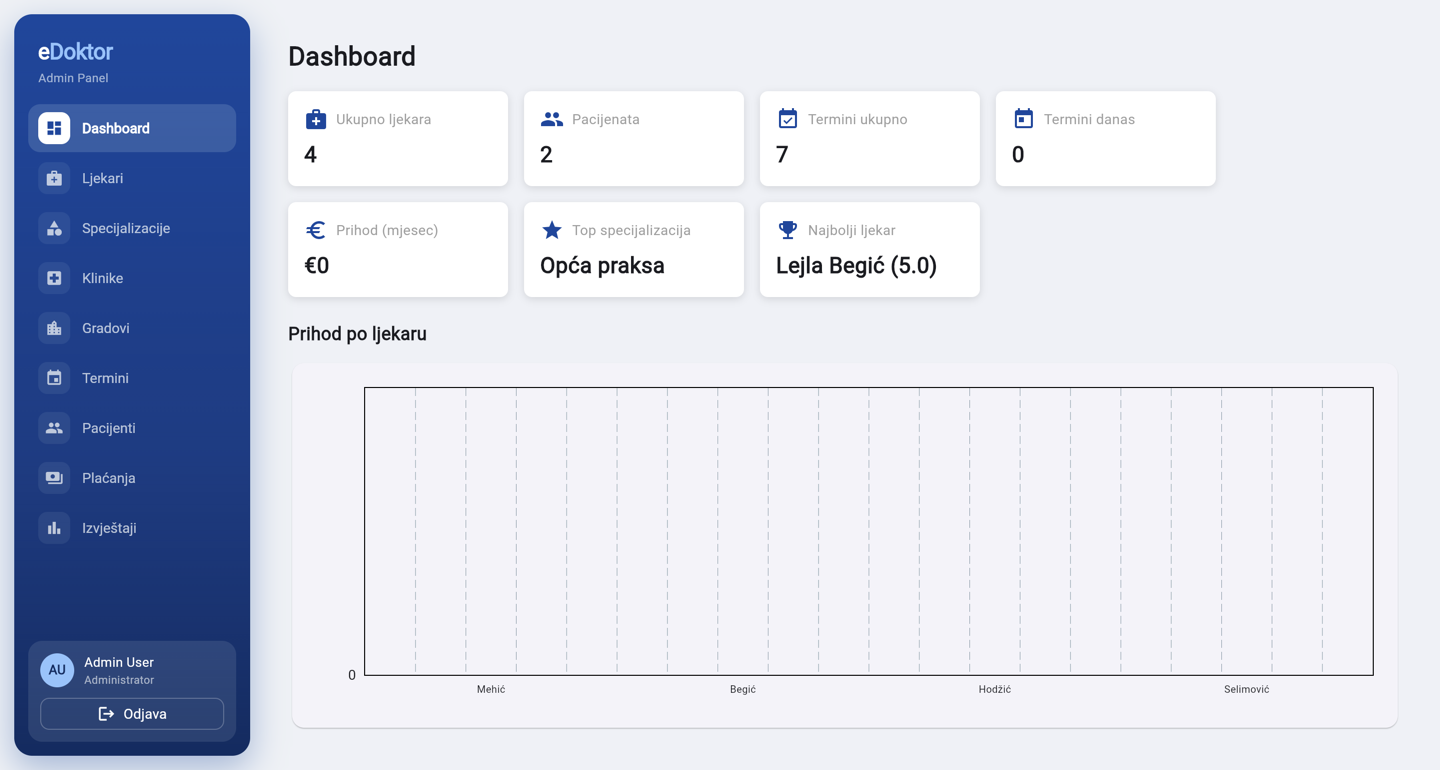
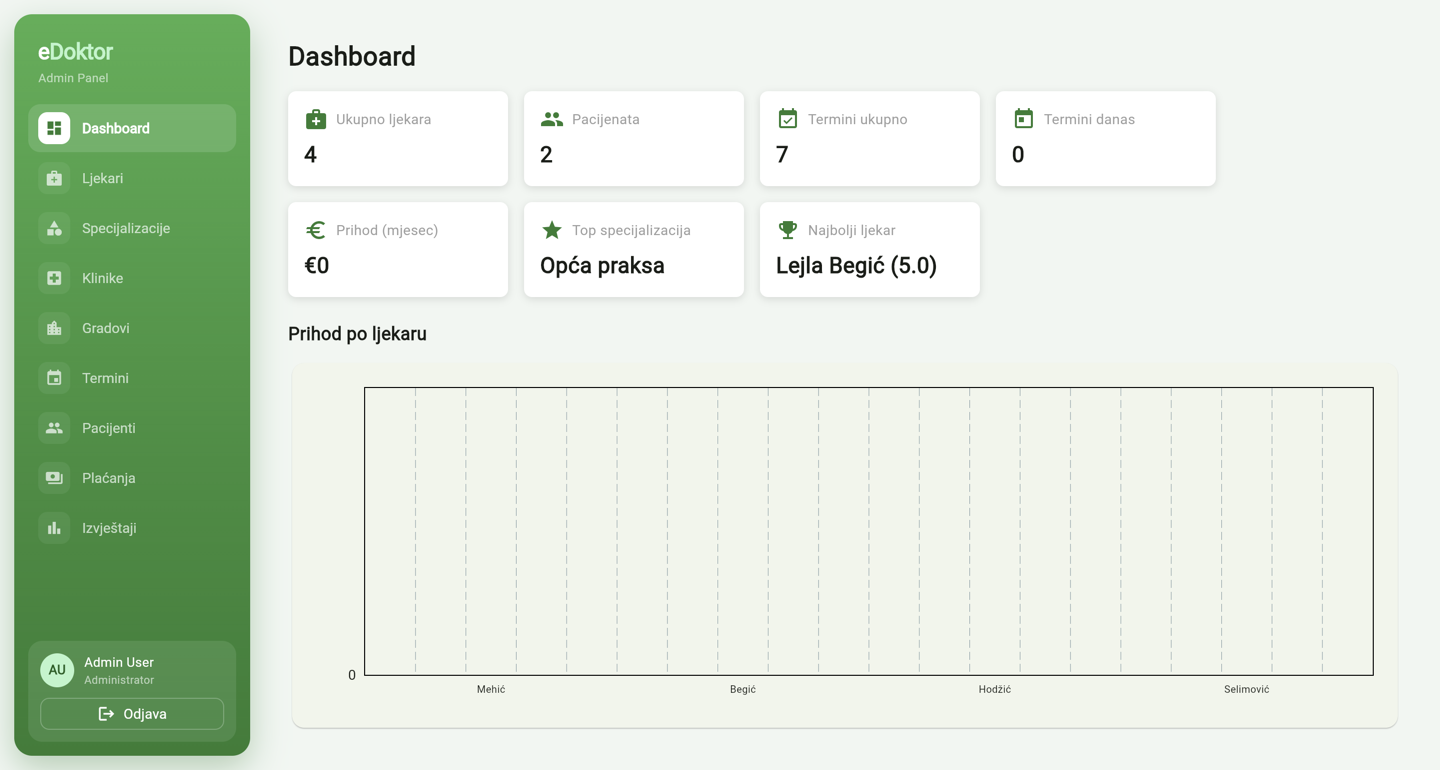
README update v2

diff --git a/UI/edoktor_desktop/lib/screens/shell_screen.dart b/UI/edoktor_desktop/lib/screens/shell_screen.dart
@@ -56,7 +56,7 @@ class _ShellScreenState extends State<ShellScreen> {
   Widget build(BuildContext context) {
     final user = context.watch<AuthProvider>().user;
     return Scaffold(
-      backgroundColor: const Color(0xFFEEF1F6),
+      backgroundColor: const Color(0xFFF1F6F2),
       body: Padding(
         padding: const EdgeInsets.all(14),
         child: Row(crossAxisAlignment: CrossAxisAlignment.stretch, children: [
@@ -105,10 +105,10 @@ class _Sidebar extends StatelessWidget {
         gradient: const LinearGradient(
           begin: Alignment.topCenter,
           end: Alignment.bottomCenter,
-          colors: [Color(0xFF0D47A1), Color(0xFF123C86), Color(0xFF0B2C63)],
+          colors: [Color(0xFF4CAF50), Color(0xFF388E3C), Color(0xFF2E7D32)],
           stops: [0, 0.6, 1],
         ),
-        boxShadow: const [BoxShadow(color: Color(0x590D47A1), blurRadius: 28, offset: Offset(0, 12))],
+        boxShadow: const [BoxShadow(color: Color(0x552E7D32), blurRadius: 28, offset: Offset(0, 12))],
       ),
       child: Column(crossAxisAlignment: CrossAxisAlignment.stretch, children: [
         const Padding(
@@ -116,7 +116,7 @@ class _Sidebar extends StatelessWidget {
           child: Column(crossAxisAlignment: CrossAxisAlignment.start, children: [
             Text.rich(TextSpan(
               style: TextStyle(color: Colors.white, fontSize: 22, fontWeight: FontWeight.bold, letterSpacing: -0.3),
-              children: [TextSpan(text: 'e'), TextSpan(text: 'Doktor', style: TextStyle(color: Color(0xFF8EC5FF)))],
+              children: [TextSpan(text: 'e'), TextSpan(text: 'Doktor', style: TextStyle(color: Color(0xFFB9F6CA)))],
             )),
             SizedBox(height: 2),
             Text('Admin Panel', style: TextStyle(color: Colors.white60, fontSize: 12)),
@@ -143,8 +143,8 @@ class _Sidebar extends StatelessWidget {
             Row(children: [
               CircleAvatar(
                 radius: 17,
-                backgroundColor: const Color(0xFF8EC5FF),
-                child: Text(_initials, style: const TextStyle(color: Color(0xFF0B2C63), fontWeight: FontWeight.bold, fontSize: 13)),
+                backgroundColor: const Color(0xFFB9F6CA),
+                child: Text(_initials, style: const TextStyle(color: Color(0xFF1B5E20), fontWeight: FontWeight.bold, fontSize: 13)),
               ),
               const SizedBox(width: 10),
               Expanded(
@@ -219,7 +219,7 @@ class _NavItemState extends State<_NavItem> {
                 color: active ? Colors.white : Colors.white.withValues(alpha: 0.07),
                 borderRadius: BorderRadius.circular(9),
               ),
-              child: Icon(widget.icon, size: 18, color: active ? const Color(0xFF0D47A1) : Colors.white70),
+              child: Icon(widget.icon, size: 18, color: active ? const Color(0xFF2E7D32) : Colors.white70),
             ),
             const SizedBox(width: 12),
             Expanded(

diff --git a/UI/edoktor_desktop/lib/services/report_pdf.dart b/UI/edoktor_desktop/lib/services/report_pdf.dart
@@ -16,7 +16,7 @@ class ReportPdf {
           pw.Row(
             mainAxisAlignment: pw.MainAxisAlignment.spaceBetween,
             children: [
-              pw.Text('eDoktor', style: pw.TextStyle(fontSize: 22, fontWeight: pw.FontWeight.bold, color: PdfColor.fromInt(0xFF0D47A1))),
+              pw.Text('eDoktor', style: pw.TextStyle(fontSize: 22, fontWeight: pw.FontWeight.bold, color: PdfColor.fromInt(0xFF2E7D32))),
               pw.Text('Generisano: ${_date.format(DateTime.now())}', style: const pw.TextStyle(fontSize: 9, color: PdfColors.grey600)),
             ],
           ),
@@ -54,7 +54,7 @@ class ReportPdf {
         pw.SizedBox(height: 6),
         pw.TableHelper.fromTextArray(
           headerStyle: pw.TextStyle(fontWeight: pw.FontWeight.bold, color: PdfColors.white, fontSize: 10),
-          headerDecoration: const pw.BoxDecoration(color: PdfColor.fromInt(0xFF0D47A1)),
+          headerDecoration: const pw.BoxDecoration(color: PdfColor.fromInt(0xFF2E7D32)),
           cellStyle: const pw.TextStyle(fontSize: 10),
           cellAlignments: {0: pw.Alignment.centerLeft, 1: pw.Alignment.centerLeft, 2: pw.Alignment.center, 3: pw.Alignment.center, 4: pw.Alignment.centerRight},
           oddRowDecoration: const pw.BoxDecoration(color: PdfColor.fromInt(0xFFF2F5F9)),
@@ -101,7 +101,7 @@ class ReportPdf {
         pw.SizedBox(height: 16),
         pw.TableHelper.fromTextArray(
           headerStyle: pw.TextStyle(fontWeight: pw.FontWeight.bold, color: PdfColors.white, fontSize: 10),
-          headerDecoration: const pw.BoxDecoration(color: PdfColor.fromInt(0xFF0D47A1)),
+          headerDecoration: const pw.BoxDecoration(color: PdfColor.fromInt(0xFF2E7D32)),
           cellStyle: const pw.TextStyle(fontSize: 9),
           cellAlignments: {0: pw.Alignment.centerLeft, 1: pw.Alignment.centerLeft, 2: pw.Alignment.centerLeft, 3: pw.Alignment.center, 4: pw.Alignment.center, 5: pw.Alignment.centerRight},
           oddRowDecoration: const pw.BoxDecoration(color: PdfColor.fromInt(0xFFF2F5F9)),
@@ -143,7 +143,7 @@ class ReportPdf {
         pw.SizedBox(height: 16),
         pw.TableHelper.fromTextArray(
           headerStyle: pw.TextStyle(fontWeight: pw.FontWeight.bold, color: PdfColors.white, fontSize: 10),
-          headerDecoration: const pw.BoxDecoration(color: PdfColor.fromInt(0xFF0D47A1)),
+          headerDecoration: const pw.BoxDecoration(color: PdfColor.fromInt(0xFF2E7D32)),
           cellStyle: const pw.TextStyle(fontSize: 9),
           cellAlignments: {0: pw.Alignment.centerLeft, 1: pw.Alignment.centerLeft, 2: pw.Alignment.centerLeft, 3: pw.Alignment.center, 4: pw.Alignment.centerRight},
           oddRowDecoration: const pw.BoxDecoration(color: PdfColor.fromInt(0xFFF2F5F9)),

diff --git a/UI/edoktor_desktop/lib/screens/patient_details_screen.dart b/UI/edoktor_desktop/lib/screens/patient_details_screen.dart
@@ -40,7 +40,7 @@ class _PatientDetailsScreenState extends State<PatientDetailsScreen> {
   Widget build(BuildContext context) {
     final p = widget.patient;
     return Scaffold(
-      backgroundColor: const Color(0xFFEEF1F6),
+      backgroundColor: const Color(0xFFF1F6F2),
       appBar: AppBar(
         leading: BackButton(onPressed: () => Navigator.pop(context)),
         title: Text('Pacijent: ${p.fullName}'),
@@ -225,7 +225,7 @@ class _EntriesTabState extends State<_EntriesTab> {
         _section(Icons.healing, 'Dijagnoza', e.diagnosis),
         _section(Icons.medical_services, 'Terapija', e.therapy),
         _section(Icons.notes, 'Napomene', e.notes),
-        const Row(children: [Icon(Icons.medication, size: 18, color: Color(0xFF0D47A1)), SizedBox(width: 8), Text('E-recept', style: TextStyle(fontWeight: FontWeight.w600))]),
+        const Row(children: [Icon(Icons.medication, size: 18, color: Color(0xFF2E7D32)), SizedBox(width: 8), Text('E-recept', style: TextStyle(fontWeight: FontWeight.w600))]),
         const SizedBox(height: 6),
         if (e.prescription == null)
           const Text('Na ovom pregledu nije izdat recept.', style: TextStyle(color: Colors.black54))
@@ -238,7 +238,7 @@ class _EntriesTabState extends State<_EntriesTab> {
   Widget _section(IconData icon, String title, String? text) => Padding(
         padding: const EdgeInsets.only(bottom: 16),
         child: Column(crossAxisAlignment: CrossAxisAlignment.start, children: [
-          Row(children: [Icon(icon, size: 18, color: const Color(0xFF0D47A1)), const SizedBox(width: 8), Text(title, style: const TextStyle(fontWeight: FontWeight.w600))]),
+          Row(children: [Icon(icon, size: 18, color: const Color(0xFF2E7D32)), const SizedBox(width: 8), Text(title, style: const TextStyle(fontWeight: FontWeight.w600))]),
           const SizedBox(height: 4),
           Text((text?.trim().isEmpty ?? true) ? '-' : text!),
         ]),
@@ -307,7 +307,7 @@ class _LabResultsTab extends StatelessWidget {
       itemBuilder: (c, i) {
         final r = results[i];
         return ListTile(
-          leading: const Icon(Icons.science, color: Color(0xFF0D47A1)),
+          leading: const Icon(Icons.science, color: Color(0xFF2E7D32)),
           title: Text(r.title),
           subtitle: Text(r.notes ?? ''),
           trailing: Text(_PatientDetailsScreenState.fmtDate(r.createdAt)),

diff --git a/UI/edoktor_desktop/lib/screens/reports_screen.dart b/UI/edoktor_desktop/lib/screens/reports_screen.dart
@@ -206,7 +206,7 @@ class _DoctorReportTabState extends State<_DoctorReportTab> with AutomaticKeepAl
       )),
       barGroups: [
         for (var i = 0; i < rows.length; i++)
-          BarChartGroupData(x: i, barRods: [BarChartRodData(toY: rows[i].appointmentCount.toDouble(), color: const Color(0xFF0D47A1), width: 26, borderRadius: BorderRadius.circular(4))]),
+          BarChartGroupData(x: i, barRods: [BarChartRodData(toY: rows[i].appointmentCount.toDouble(), color: const Color(0xFF2E7D32), width: 26, borderRadius: BorderRadius.circular(4))]),
       ],
       titlesData: FlTitlesData(
         leftTitles: AxisTitles(sideTitles: SideTitles(showTitles: true, reservedSize: 32, interval: 1,
@@ -228,7 +228,7 @@ class _DoctorReportTabState extends State<_DoctorReportTab> with AutomaticKeepAl
     width: 260, padding: const EdgeInsets.all(16),
     decoration: BoxDecoration(color: Colors.white, borderRadius: BorderRadius.circular(8), boxShadow: const [BoxShadow(color: Colors.black12, blurRadius: 6, offset: Offset(0, 2))]),
     child: Column(crossAxisAlignment: CrossAxisAlignment.start, children: [
-      Row(children: [Icon(icon, color: const Color(0xFF0D47A1)), const SizedBox(width: 8), Expanded(child: Text(label, style: const TextStyle(color: Colors.grey)))]),
+      Row(children: [Icon(icon, color: const Color(0xFF2E7D32)), const SizedBox(width: 8), Expanded(child: Text(label, style: const TextStyle(color: Colors.grey)))]),
       const SizedBox(height: 8),
       Text(value, style: const TextStyle(fontSize: 18, fontWeight: FontWeight.bold)),
     ]),

diff --git a/UI/edoktor_desktop/lib/screens/dashboard_screen.dart b/UI/edoktor_desktop/lib/screens/dashboard_screen.dart
@@ -41,7 +41,7 @@ class _DashboardScreenState extends State<DashboardScreen> {
           alignment: BarChartAlignment.spaceAround,
           barGroups: [
             for (int i = 0; i < d.rows.length; i++)
-              BarChartGroupData(x: i, barRods: [BarChartRodData(toY: d.rows[i].revenue, color: const Color(0xFF0D47A1), width: 22)])
+              BarChartGroupData(x: i, barRods: [BarChartRodData(toY: d.rows[i].revenue, color: const Color(0xFF2E7D32), width: 22)])
           ],
           titlesData: FlTitlesData(
             leftTitles: AxisTitles(sideTitles: SideTitles(showTitles: true, reservedSize: 48)),
@@ -61,7 +61,7 @@ class _DashboardScreenState extends State<DashboardScreen> {
     width: 220, padding: const EdgeInsets.all(16),
     decoration: BoxDecoration(color: Colors.white, borderRadius: BorderRadius.circular(8), boxShadow: const [BoxShadow(color: Colors.black12, blurRadius: 6, offset: Offset(0, 2))]),
     child: Column(crossAxisAlignment: CrossAxisAlignment.start, children: [
-      Row(children: [Icon(icon, color: const Color(0xFF0D47A1)), const SizedBox(width: 8), Text(label, style: const TextStyle(color: Colors.grey))]),
+      Row(children: [Icon(icon, color: const Color(0xFF2E7D32)), const SizedBox(width: 8), Text(label, style: const TextStyle(color: Colors.grey))]),
       const SizedBox(height: 8),
       Text(value, style: const TextStyle(fontSize: 22, fontWeight: FontWeight.bold)),
     ]),

diff --git a/UI/edoktor_desktop/lib/screens/working_hours_screen.dart b/UI/edoktor_desktop/lib/screens/working_hours_screen.dart
@@ -81,7 +81,7 @@ class _WorkingHoursScreenState extends State<WorkingHoursScreen> {
   Widget build(BuildContext context) {
     final lastDay = DateTime(_weekEnd.year, _weekEnd.month, _weekEnd.day - 1);
     return Scaffold(
-      backgroundColor: const Color(0xFFEEF1F6),
+      backgroundColor: const Color(0xFFF1F6F2),
       appBar: AppBar(
         leading: BackButton(onPressed: () => Navigator.pop(context)),
         title: Text('Radno vrijeme – dr. $_doctorName'),
@@ -128,7 +128,7 @@ class _WorkingHoursScreenState extends State<WorkingHoursScreen> {
     final isToday = DateUtils.isSameDay(day, DateTime.now());
     final now = DateTime.now();
     return Card(
-      shape: RoundedRectangleBorder(borderRadius: BorderRadius.circular(10), side: isToday ? const BorderSide(color: Color(0xFF0D47A1), width: 1.5) : BorderSide.none),
+      shape: RoundedRectangleBorder(borderRadius: BorderRadius.circular(10), side: isToday ? const BorderSide(color: Color(0xFF2E7D32), width: 1.5) : BorderSide.none),
       child: Column(crossAxisAlignment: CrossAxisAlignment.stretch, children: [
         Padding(padding: const EdgeInsets.all(10), child: Column(children: [
           Text(weekdayNames[day.weekday - 1], style: const TextStyle(fontWeight: FontWeight.w600)),

diff --git a/UI/edoktor_desktop/lib/screens/login_screen.dart b/UI/edoktor_desktop/lib/screens/login_screen.dart
@@ -39,7 +39,7 @@ class _LoginScreenState extends State<LoginScreen> {
       body: Center(child: ConstrainedBox(constraints: const BoxConstraints(maxWidth: 420), child: Card(
         elevation: 4,
         child: Padding(padding: const EdgeInsets.all(32), child: Form(key: _formKey, child: Column(mainAxisSize: MainAxisSize.min, crossAxisAlignment: CrossAxisAlignment.stretch, children: [
-          const Text('eDoktor Admin', style: TextStyle(fontSize: 28, fontWeight: FontWeight.bold, color: Color(0xFF0D47A1)), textAlign: TextAlign.center),
+          const Text('eDoktor Admin', style: TextStyle(fontSize: 28, fontWeight: FontWeight.bold, color: Color(0xFF2E7D32)), textAlign: TextAlign.center),
           const SizedBox(height: 4),
           const Text('Prijava administratora', textAlign: TextAlign.center, style: TextStyle(color: Colors.grey)),
           const SizedBox(height: 32),

diff --git a/UI/edoktor_desktop/lib/screens/payments_screen.dart b/UI/edoktor_desktop/lib/screens/payments_screen.dart
@@ -252,7 +252,7 @@ class _PaymentsScreenState extends State<PaymentsScreen> {
     width: wide ? 420 : 220, padding: const EdgeInsets.all(16),
     decoration: BoxDecoration(color: Colors.white, borderRadius: BorderRadius.circular(8), boxShadow: const [BoxShadow(color: Colors.black12, blurRadius: 6, offset: Offset(0, 2))]),
     child: Column(crossAxisAlignment: CrossAxisAlignment.start, children: [
-      Row(children: [Icon(icon, color: const Color(0xFF0D47A1)), const SizedBox(width: 8), Text(label, style: const TextStyle(color: Colors.grey))]),
+      Row(children: [Icon(icon, color: const Color(0xFF2E7D32)), const SizedBox(width: 8), Text(label, style: const TextStyle(color: Colors.grey))]),
       const SizedBox(height: 8),
       Text(value, style: TextStyle(fontSize: wide ? 15 : 22, fontWeight: FontWeight.bold)),
     ]),

diff --git a/UI/edoktor_desktop/lib/widgets/reschedule_dialog.dart b/UI/edoktor_desktop/lib/widgets/reschedule_dialog.dart
@@ -78,7 +78,7 @@ class _RescheduleDialogState extends State<RescheduleDialog> {
         Text('Trenutni termin: ${_fullFmt.format(a.startUtc)}', style: const TextStyle(color: Colors.black54)),
         const SizedBox(height: 16),
         Row(children: [
-          const Icon(Icons.calendar_today, size: 18, color: Color(0xFF0D47A1)),
+          const Icon(Icons.calendar_today, size: 18, color: Color(0xFF2E7D32)),
           const SizedBox(width: 8),
           Expanded(child: Text(_dayFmt.format(_day))),
           OutlinedButton(onPressed: _pickDay, child: const Text('Promijeni datum')),

diff --git a/UI/edoktor_desktop/lib/main.dart b/UI/edoktor_desktop/lib/main.dart
@@ -46,7 +46,8 @@ class EDoktorAdminApp extends StatelessWidget {
         navigatorKey: navigatorKey,
         debugShowCheckedModeBanner: false,
         theme: ThemeData(
-          colorScheme: ColorScheme.fromSeed(seedColor: const Color(0xFF0D47A1)),
+          colorScheme: ColorScheme.fromSeed(seedColor: const Color(0xFF2E7D32), primary: const Color(0xFF2E7D32)),
+          scaffoldBackgroundColor: const Color(0xFFF1F6F2),
           useMaterial3: true,
         ),
         home: AuthStore.token != null && AuthStore.user?.role == 'admin' ? const ShellScreen() : const LoginScreen(),

diff --git a/UI/edoktor_desktop/lib/screens/cities_screen.dart b/UI/edoktor_desktop/lib/screens/cities_screen.dart
@@ -95,7 +95,7 @@ class _CitiesScreenState extends State<CitiesScreen> {
         return ListView.separated(itemCount: list.length, separatorBuilder: (_, __) => const Divider(height: 1), itemBuilder: (c, i) {
           final x = list[i];
           return ListTile(
-            leading: const Icon(Icons.location_city, color: Color(0xFF0D47A1)),
+            leading: const Icon(Icons.location_city, color: Color(0xFF2E7D32)),
             title: Text(x.name),
             subtitle: Text(x.country ?? ''),
             trailing: Row(mainAxisSize: MainAxisSize.min, children: [
